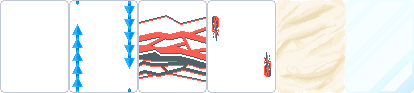
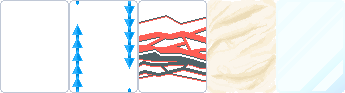
added card types effects

diff --git a/interfaces/Card.ts b/interfaces/Card.ts
@@ -4,6 +4,7 @@ import { deckSize, setDeckSize, useAppStore } from "../GameState";
 import { cardSliceData } from "../assets/sliceData";
 
 import { getRandomInt } from "../logic/Random";
+import { Deck } from "../assets/cards/deckArray";
 
 export enum Suits {
     Hearts = 'hearts',
@@ -71,7 +72,6 @@ export enum Modifier {
     Normal,
     Bonus,
     Mult,
-    Wild,
     Lucky,
     Glass
 }
@@ -79,7 +79,6 @@ export const ModifierArray: Modifier[] = [
     Modifier.Normal,
     Modifier.Bonus,
     Modifier.Mult,
-    Modifier.Wild,
     Modifier.Lucky,
     Modifier.Glass,
 ];
@@ -100,8 +99,6 @@ export interface IPlayingCard {
 export function createCard(suit: Suits, rank: Ranks, modifier: Modifier): IPlayingCard {
     const isFaceCard = [Ranks.Jack, Ranks.Queen, Ranks.King].includes(rank);
     const id = deckSize + 1;
-    // const rankValues = Object.values(Ranks).filter(v => typeof v === 'number');
-    // const suitValues = Object.values(Suits);
 
     const x = (cardSliceData.spriteWidth + cardSliceData.offsetX) * RanksArray.findIndex(r => r === rank);
     const y = (cardSliceData.spriteHeight + cardSliceData.offsetY) * SuitsArray.findIndex(s => s === suit);
@@ -132,7 +129,7 @@ export function generateDeck(): Map<Suits, Map<Ranks, IPlayingCard>> {
         }
         const suitMap = deck.get(suit)!;
 
-        for (const rank of RanksArray) {//typesciprt returns both the number and the string so it must be filtered to just nums
+        for (const rank of RanksArray) {
             const card = createCard(suit, rank, Modifier.Lucky);
             suitMap.set(card.rank, card);
         }
@@ -168,4 +165,30 @@ export function setCardAvaliablity(card: IPlayingCard, cardsBySuits: Map<Suits, 
     const cardReference = cardsBySuits.get(card.suit)?.get(card.rank);
     if (!cardReference) return;
     cardReference.avaliable = avaliability;
+}
+
+export function addCardToDeck(deck: Deck, card: IPlayingCard): Deck {
+    const newCardsBySuits = new Map(deck.cardsBySuits);
+
+    const suitMap = new Map(newCardsBySuits.get(card.suit));
+    suitMap.set(card.id, card);
+    newCardsBySuits.set(card.suit, suitMap);
+
+    return {
+        ...deck,
+        cardsBySuits: newCardsBySuits,
+    };
+}
+
+export function removeCardFromDeck(suit: Suits, rank: Ranks, deck: Deck): Deck {
+    const oldMap = deck.cardsBySuits!;
+
+    const newMap = new Map(oldMap);
+    const suitMap = new Map(newMap.get(suit)!);
+
+    suitMap.delete(rank);
+    newMap.set(suit, suitMap);
+    deck.state!.total--;
+
+    return { ...deck, cardsBySuits: newMap }
 }

diff --git a/components/ui/Shop.tsx b/components/ui/Shop.tsx
@@ -9,9 +9,9 @@ import { ShopItem } from "./ShopItem";
 import { buttonSliceData, cardModifierSliceData, cardSliceData, jokersSliceData } from "../../assets/sliceData";
 import { useSpriteRects } from "../../logic/SpriteSheet";
 import { getRandomInt } from "../../logic/Random";
-import { addCardToDeck, CardsInShop, JokersInShop, useAppStore, Views } from "../../GameState";
+import { CardsInShop, JokersInShop, useAppStore, Views } from "../../GameState";
 import { useScreenDimensions } from "../../logic/ResponsiveDimensions";
-import { createCard, Modifier, ModifierArray, Ranks, RanksArray, Suits, SuitsArray } from "../../interfaces/Card";
+import { createCard, addCardToDeck, ModifierArray, Ranks, RanksArray, Suits, SuitsArray } from "../../interfaces/Card";
 
 enum SelectedItemType {
     Joker,
@@ -108,20 +108,20 @@ export default function Shop(): ReactElement | null {
         if (!selectedItem) return;
         const priceToSubstract = selectedItem.type === SelectedItemType.Card ? cardPrice : jokerPrice;
         // if (store.money < priceToSubstract) return
+        store.setMoney((prev) => prev - priceToSubstract);
 
         if (selectedItem.type === SelectedItemType.Joker) {
             setJokerRandomIndexes(prev => prev.filter((index) => index !== selectedItem.index));
         } else {
-            const rank = RanksArray[(selectedItem.index % cardSliceData.cols)]; //the enum for ranks starts from 2 so we have to add 2
+            const rank = RanksArray[(selectedItem.index % cardSliceData.cols)];
             const suit = SuitsArray[Math.floor(selectedItem.index / cardSliceData.cols)];
             const modifier = ModifierArray[modifierRandomIndexes[selectedItem.indexInShop]];
             const card = createCard(suit, rank, modifier)
-            console.log(rank, suit, modifier)
+
             store.currentDeck.state!.total++;
             store.setCurrentDeck(addCardToDeck(store.currentDeck, card));
             setCardRandomIndexes(prev => prev.filter((index) => index !== selectedItem.index));
         }
-        store.setMoney((prev) => prev - priceToSubstract);
     }
 
     const jokerViews = jokerRandomIndexes.map((jokerIndex, i) => {

diff --git a/logic/CardModifiers.ts b/logic/CardModifiers.ts
@@ -1,0 +1,41 @@
+import { useAppStore } from "../GameState";
+import { Modifier, removeCardFromDeck, Suits } from "../interfaces/Card";
+import { getRandomInt } from "./Random";
+
+export function getBonusForCard(modifier: Modifier, currentMult: number, cardID: number, suit: Suits): [number, number] {
+    switch (modifier) {
+        case Modifier.Normal:
+            return [0, 0]
+        case Modifier.Bonus:
+            return [50, 0]
+        case Modifier.Mult:
+            return [0, 4];
+        case Modifier.Glass:
+            return getBonusForGlass(currentMult, cardID, suit);
+        case Modifier.Lucky:
+            return getBonusForLucky();
+    }
+}
+
+function getBonusForGlass(mult: number, cardID: number, suit: Suits): [number, number] {
+    const chance = getRandomInt(0, 3);
+
+    if (chance === 3) {
+        const store = useAppStore.getState();
+        store.setCurrentDeck(removeCardFromDeck(suit, cardID, store.currentDeck));
+    }
+
+    return [0, mult * 2];
+}
+
+function getBonusForLucky(): [number, number] {
+    const multChance = getRandomInt(0, 4);
+    const moneyChance = getRandomInt(0, 14);
+
+    const multBonus = multChance === 4 ? 20 : 0;
+    const moneyBonus = moneyChance === 14 ? 20 : 0;
+
+    if (moneyBonus !== 0) useAppStore.getState().setMoney((prev) => prev + moneyBonus);
+
+    return [0, multBonus];
+}

diff --git a/components/ui/GameScreen.tsx b/components/ui/GameScreen.tsx
@@ -15,6 +15,7 @@ import { defaultHandSize } from "../../GameState";
 import Card from "./Card";
 import MenuButton from "./MenuButton";
 import { checkHandType, getChipsForHandType, getMultForHandType, HandType } from "../../logic/CheckHandType";
+import { getBonusForCard } from "../../logic/CardModifiers";
 
 
 export default function GameScreen(): ReactElement | null {
@@ -55,7 +56,7 @@ export default function GameScreen(): ReactElement | null {
         setHand(sortHand(startingHand))
     }, [])
 
-    const { width: screenWidth, height: screenHeight } = useScreenDimensions();
+    const { width: screenWidth, height: _ } = useScreenDimensions();
 
     const [deckIconWidth, setDeckIconWidth] = useState(0);
     const [statusPaneWidth, setStatusPaneWidth] = useState(0);
@@ -213,6 +214,9 @@ export default function GameScreen(): ReactElement | null {
                 setTimeout(() => {
                     setShakingIndex(i);
                     chips.current += rankValues[removed[i].rank]
+                    const [chipBonus, multBonus] = getBonusForCard(removed[i].modifier, mult.current, removed[i].rank, removed[i].suit)
+                    mult.current += multBonus;
+                    chips.current += chipBonus;
                 }, i * shakeDuration + shakeDuration)
             })
             setTimeout(() => {

diff --git a/components/ui/AnteSelectScreen.tsx b/components/ui/AnteSelectScreen.tsx
@@ -30,7 +30,7 @@ export default function AnteSelectScreen(): ReactElement | null {
     let panes: ReactElement[] = [];
     for (let i = 0; i < 3; i++) {
         const blindIndex = i < 2 ? i : bossBlindIndex;
-        const blindState = i < store.currentRound - 1 % 3 ? BlindState.defeated : i === store.currentRound - 1 % 3 ? BlindState.selected : BlindState.upcoming;
+        const blindState = i < (store.currentRound - 1) % 3 ? BlindState.defeated : i === (store.currentRound - 1) % 3 ? BlindState.selected : BlindState.upcoming;
         panes.push(
             <AnteSelectPane
                 stakeSpriteSheet={stakeSpriteSheet}

diff --git a/GameState.ts b/GameState.ts
@@ -101,18 +101,3 @@ export const useAppStore = create<AppState>((set) => ({
             discards: typeof update === "function" ? update(state.discards) : update,
         })),
 }));
-
-export function addCardToDeck(deck: Deck, card: IPlayingCard): Deck {
-    const newCardsBySuits = new Map(deck.cardsBySuits);
-
-    const suitMap = new Map(newCardsBySuits.get(card.suit));
-
-    suitMap.set(card.id, card);
-
-    newCardsBySuits.set(card.suit, suitMap);
-
-    return {
-        ...deck,
-        cardsBySuits: newCardsBySuits,
-    };
-}

diff --git a/assets/sliceData.ts b/assets/sliceData.ts
@@ -48,7 +48,7 @@ export const cardModifierSliceData: SpriteSheetSliceData = {
     offsetX: 0,
     offsetY: 0,
     rows: 1,
-    cols: 6,
+    cols: 5,
     spriteWidth: 69,
     spriteHeight: 93,
 }
